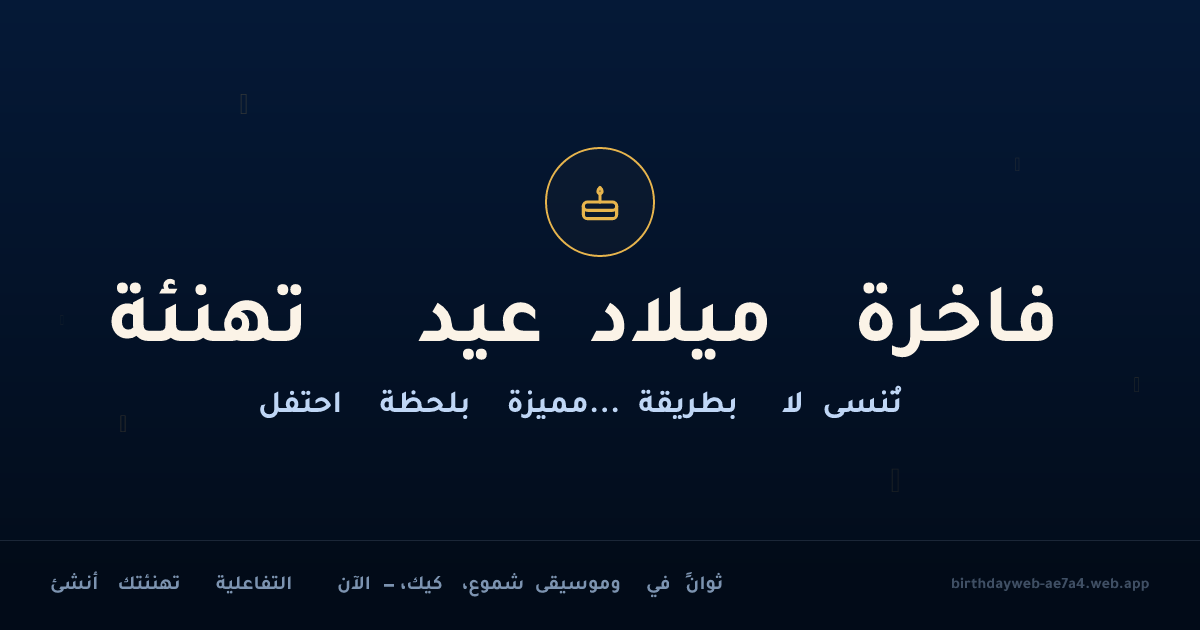
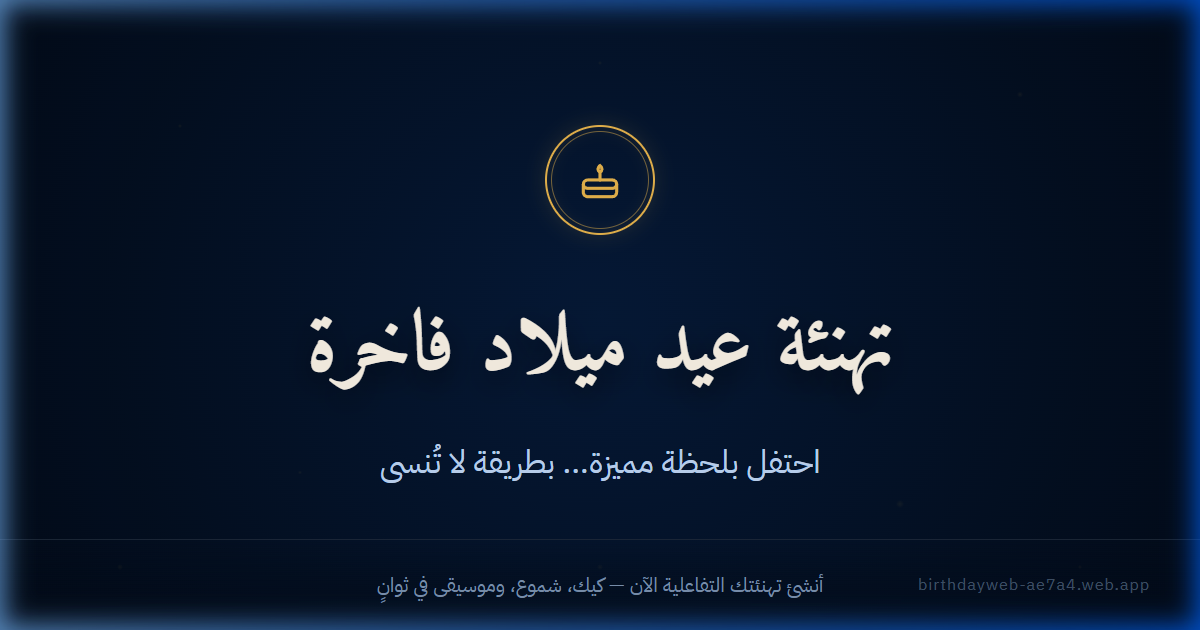
نعم

diff --git a/public/og-design.html b/public/og-design.html
@@ -21,14 +21,14 @@
             justify-content: center;
             align-items: center;
             min-height: 100vh;
-            background-color: #1a1a1a;
-            padding: 20px;
+            background-color: #020B18;
+            padding: 0;
         }
 
-        /* Container with exact OG Image dimensions */
+        /* Container fills entire viewport */
         .og-container {
-            width: 1200px;
-            height: 630px;
+            width: 100vw;
+            height: 100vh;
             position: relative;
             background: radial-gradient(circle at center, #051937 0%, #020B18 100%);
             overflow: hidden;
@@ -36,7 +36,6 @@
             flex-direction: column;
             align-items: center;
             justify-content: center;
-            box-shadow: 0 20px 50px rgba(0,0,0,0.5);
         }
 
         /* Organic Background Scatter / Pattern */